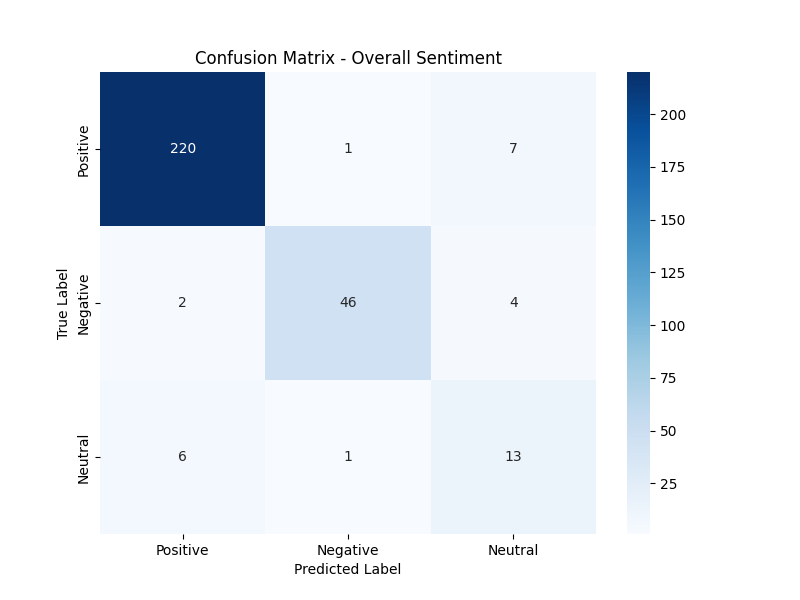
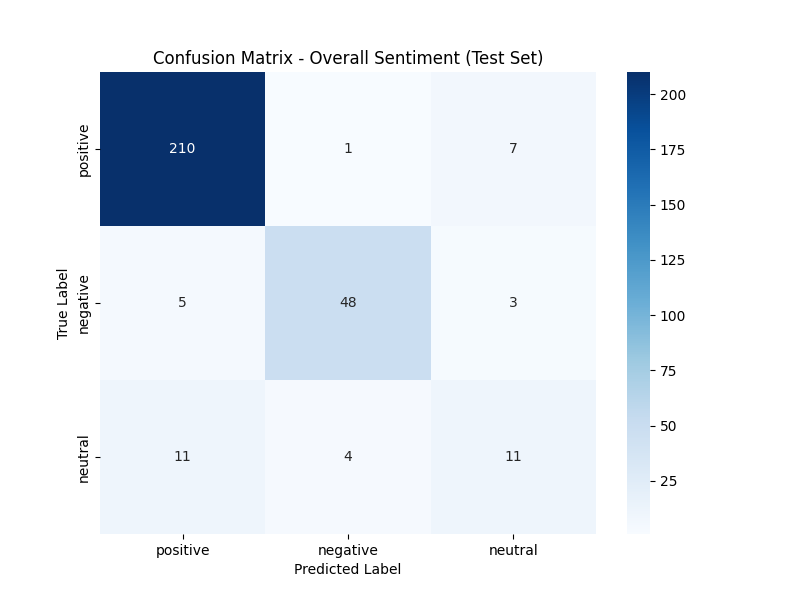
Expand aspect labels and evaluate test set
Preserve hierarchical aspect labels, create the splits directory when preparing data, and raise the CLI aspect-detection threshold. Evaluate the best checkpoint on the held-out test set, report classification and inference metrics, and save updated loss and confusion-matrix plots.

diff --git a/src/train_evaluate.py b/src/train_evaluate.py
@@ -1,3 +1,5 @@
+import time
+import json
 import torch
 import torch.nn as nn
 from torch.utils.data import DataLoader
@@ -11,48 +13,33 @@ from pathlib import Path
 
 from config import (
     TOKENIZED_DATA_FILE, BEST_MODEL_FILE, METRICS_DIR,
-    MODEL_NAME, BATCH_SIZE, EPOCHS, LEARNING_RATE
+    MODEL_NAME, BATCH_SIZE, EPOCHS, LEARNING_RATE, LABEL_CLASSES_FILE
 )
 
-# ==============================================================================
 # 1. KHỞI TẠO KIẾN TRÚC MÔ HÌNH MULTI-TASK PHOBERT
-# ==============================================================================
 class HotelCommentModel(nn.Module):
     def __init__(self, num_sentiment_classes, num_aspect_classes):
         super(HotelCommentModel, self).__init__()
-        # Load thân mô hình PhoBERT (Chỉ lấy phần trích xuất đặc trưng, không lấy lớp phân loại có sẵn)
         self.phobert = AutoModel.from_pretrained(MODEL_NAME)
-        
-        # Dropout giúp chống Overfitting (Học vẹt)
         self.drop = nn.Dropout(p=0.3)
-        
-        # Head 1: Phân loại sắc thái tổng thể (Multi-class: Pos, Neg, Neu)
         self.sentiment_head = nn.Linear(self.phobert.config.hidden_size, num_sentiment_classes)
-        
-        # Head 2: Trích xuất đa nhãn khía cạnh (Multi-label: HOTEL#POS, ROOM#NEG...)
         self.aspect_head = nn.Linear(self.phobert.config.hidden_size, num_aspect_classes)
         
     def forward(self, input_ids, attention_mask):
-        # Đưa văn bản qua PhoBERT
         outputs = self.phobert(
             input_ids=input_ids,
             attention_mask=attention_mask
         )
-        
-        # Lấy vector đại diện cho toàn bộ câu (Token <s> đầu tiên của kiến trúc RoBERTa/PhoBERT)
         pooled_output = outputs.last_hidden_state[:, 0, :]
         pooled_output = self.drop(pooled_output)
         
-        # Rẽ nhánh ra 2 bài toán
         sentiment_logits = self.sentiment_head(pooled_output)
         aspect_logits = self.aspect_head(pooled_output)
         
         return sentiment_logits, aspect_logits
 
-# ==============================================================================
 # 2. HÀM HUẤN LUYỆN VÀ ĐÁNH GIÁ
-# ==============================================================================
-def plot_metrics(train_losses, val_losses, conf_matrix):
+def plot_metrics(train_losses, val_losses, conf_matrix, class_names):
     """Vẽ biểu đồ Loss và Ma trận nhầm lẫn."""
     METRICS_DIR.mkdir(parents=True, exist_ok=True)
     
@@ -67,12 +54,12 @@ def plot_metrics(train_losses, val_losses, conf_matrix):
     plt.savefig(METRICS_DIR / 'loss_curve.png')
     plt.close()
 
-    # 2. Ma trận nhầm lẫn (Confusion Matrix) cho sắc thái tổng thể
+    # 2. Ma trận nhầm lẫn (Confusion Matrix) trên tập Test
     plt.figure(figsize=(8, 6))
     sns.heatmap(conf_matrix, annot=True, fmt='d', cmap='Blues',
-                xticklabels=['Positive', 'Negative', 'Neutral'],
-                yticklabels=['Positive', 'Negative', 'Neutral'])
-    plt.title('Confusion Matrix - Overall Sentiment')
+                xticklabels=class_names,
+                yticklabels=class_names)
+    plt.title('Confusion Matrix - Overall Sentiment (Test Set)')
     plt.ylabel('True Label')
     plt.xlabel('Predicted Label')
     plt.savefig(METRICS_DIR / 'confusion_matrix.png')
@@ -80,35 +67,37 @@ def plot_metrics(train_losses, val_losses, conf_matrix):
 
 def train():
     if not TOKENIZED_DATA_FILE.exists():
-        print(f"❌ Không tìm thấy {TOKENIZED_DATA_FILE}. Chạy prepare_data.py trước.")
+        print(f"Không tìm thấy {TOKENIZED_DATA_FILE}. Chạy prepare_data.py trước.")
         return
 
-    # Tự động chọn GPU nếu có (khi chạy trên Colab), ngược lại dùng CPU
-    device = torch.device("cuda" if torch.cuda.is_available() else "cpu")
-    print(f"🚀 Đang sử dụng thiết bị: {device}")
+    # Lấy danh sách tên nhãn để hiển thị báo cáo
+    with open(LABEL_CLASSES_FILE, 'r', encoding='utf-8') as f:
+        classes_info = json.load(f)
+    sentiment_class_names = classes_info["overall_sentiments"]
 
-    # Load dữ liệu đã Tokenize
+    device = torch.device("cuda" if torch.cuda.is_available() else "cpu")
+    print(f"Đang sử dụng thiết bị: {device}")
+
     data = torch.load(TOKENIZED_DATA_FILE, weights_only=False)
     train_loader = DataLoader(data['train'], batch_size=BATCH_SIZE, shuffle=True)
     val_loader = DataLoader(data['val'], batch_size=BATCH_SIZE)
+    test_loader = DataLoader(data['test'], batch_size=BATCH_SIZE)
     
     num_sentiment_classes = data['num_sentiment_classes']
     num_aspect_classes = data['num_aspect_classes']
 
-    # Khởi tạo mô hình
     model = HotelCommentModel(num_sentiment_classes, num_aspect_classes).to(device)
     
-    # Optimizer & Hàm Loss
     optimizer = AdamW(model.parameters(), lr=LEARNING_RATE)
-    # Loss cho phân loại 1 nhãn (Sắc thái chung)
     loss_fn_sentiment = nn.CrossEntropyLoss()
-    # Loss cho phân loại đa nhãn (Khía cạnh) - Dùng Binary Cross Entropy độc lập cho từng nhãn
     loss_fn_aspect = nn.BCEWithLogitsLoss()
 
     best_val_loss = float('inf')
     train_losses, val_losses = [], []
 
-    print("🔥 Bắt đầu huấn luyện...")
+    print("Bắt đầu huấn luyện...")
+    train_start_time = time.time()
+
     for epoch in range(EPOCHS):
         model.train()
         total_train_loss = 0
@@ -119,7 +108,6 @@ def train():
             optimizer.zero_grad()
             sentiment_logits, aspect_logits = model(input_ids, attention_mask)
             
-            # Tính tổng Loss của cả 2 bài toán
             loss_sentiment = loss_fn_sentiment(sentiment_logits, sentiment_labels)
             loss_aspect = loss_fn_aspect(aspect_logits, aspect_labels)
             loss = loss_sentiment + loss_aspect
@@ -146,7 +134,6 @@ def train():
                 loss = loss_sentiment + loss_aspect
                 total_val_loss += loss.item()
                 
-                # Lưu lại dự đoán sắc thái để tính F1 và vẽ ma trận
                 preds = torch.argmax(sentiment_logits, dim=1)
                 val_sent_preds.extend(preds.cpu().numpy())
                 val_sent_trues.extend(sentiment_labels.cpu().numpy())
@@ -155,19 +142,52 @@ def train():
         val_losses.append(avg_val_loss)
         
         val_f1 = f1_score(val_sent_trues, val_sent_preds, average='macro')
-        print(f"Epoch {epoch+1}/{EPOCHS} | Train Loss: {avg_train_loss:.4f} | Val Loss: {avg_val_loss:.4f} | Val F1 (Sentiment): {val_f1:.4f}")
+        print(f"Epoch {epoch+1}/{EPOCHS} | Train Loss: {avg_train_loss:.4f} | Val Loss: {avg_val_loss:.4f} | Val F1 (Macro): {val_f1:.4f}")
 
-        # Lưu mô hình tốt nhất
         if avg_val_loss < best_val_loss:
             best_val_loss = avg_val_loss
             BEST_MODEL_FILE.parent.mkdir(parents=True, exist_ok=True)
             torch.save(model.state_dict(), BEST_MODEL_FILE)
-            best_conf_matrix = confusion_matrix(val_sent_trues, val_sent_preds)
-            print("💾 Đã lưu mô hình tốt nhất!")
+            print("  -> 💾 Đã lưu mô hình tốt nhất!")
 
-    # Vẽ biểu đồ sau khi train xong
-    plot_metrics(train_losses, val_losses, best_conf_matrix)
-    print(f"📊 Đã xuất biểu đồ Loss và Confusion Matrix ra thư mục {METRICS_DIR}")
+    total_train_time = time.time() - train_start_time
+    print(f"\nTỔNG THỜI GIAN HUẤN LUYỆN: {total_train_time:.2f} giây")
+
+    # ================= ĐÁNH GIÁ TRÊN TẬP TEST (THI THẬT) =================
+    print("\n" + "="*50)
+    print("BẮT ĐẦU ĐÁNH GIÁ TRÊN TẬP TEST...")
+    
+    # Nạp lại trọng số tốt nhất đã lưu
+    model.load_state_dict(torch.load(BEST_MODEL_FILE, weights_only=True))
+    model.eval()
+    
+    test_sent_preds, test_sent_trues = [], []
+    test_start_time = time.time()
+    
+    with torch.no_grad():
+        for batch in test_loader:
+            input_ids, attention_mask, sentiment_labels, aspect_labels = [b.to(device) for b in batch]
+            sentiment_logits, _ = model(input_ids, attention_mask)
+            
+            preds = torch.argmax(sentiment_logits, dim=1)
+            test_sent_preds.extend(preds.cpu().numpy())
+            test_sent_trues.extend(sentiment_labels.cpu().numpy())
+            
+    total_test_time = time.time() - test_start_time
+    num_test_samples = len(test_sent_trues)
+    
+    print(f"Thời gian dự đoán (Inference Time): {total_test_time:.4f} giây cho {num_test_samples} mẫu (Trung bình: {total_test_time/num_test_samples:.4f} s/mẫu)")
+    
+    # Báo cáo tổng hợp Precision, Recall, F1 (Macro & Weighted)
+    print("\nBÁO CÁO PHÂN LOẠI (Sắc thái tổng thể):")
+    report = classification_report(test_sent_trues, test_sent_preds, target_names=sentiment_class_names)
+    print(report)
+
+    # Vẽ biểu đồ Loss và Confusion Matrix trên tập Test
+    test_conf_matrix = confusion_matrix(test_sent_trues, test_sent_preds)
+    plot_metrics(train_losses, val_losses, test_conf_matrix, sentiment_class_names)
+    print(f"Đã xuất biểu đồ Loss và Confusion Matrix ra thư mục {METRICS_DIR}")
 
 if __name__ == "__main__":
     train()
+    

diff --git a/src/read_data.py b/src/read_data.py
@@ -6,7 +6,7 @@ from config import DATASET_FILE, RAW_CSV_FILE, LABEL_CLASSES_FILE
 def determine_overall_sentiment(sentiments):
     """
     Tự động tính sắc thái tổng thể của câu dựa trên các nhãn khía cạnh.
-    Quy tắc: Khen > Chê -> positive | Chê > Khen -> negative | Bằng nhau -> neutral
+    Quy tắc: Khen > Chê -> positive | Chê > Khen -> negative | Bằng nhau -> neutral[cite: 6]
     """
     if not sentiments:
         return "neutral"
@@ -22,18 +22,16 @@ def determine_overall_sentiment(sentiments):
         return "neutral"
 
 def process_dataset():
-    # Kiểm tra xem file dataset.txt có tồn tại
     if not DATASET_FILE.exists():
         print(f"Lỗi: Không tìm thấy file {DATASET_FILE}")
         return
 
-    # Đọc nội dung file
     with open(DATASET_FILE, 'r', encoding='utf-8') as f:
         content = f.read()
 
-    # Regex 1: Tách từng block bình luận bắt đầu bằng #ID
+    # Regex 1: Tách từng block bình luận bắt đầu bằng #ID[cite: 6]
     entry_pattern = re.compile(r'#(\d+)\s*(.*?)\s*(?=(?:#\d+)|\Z)', re.DOTALL)
-    # Regex 2: Tách các nhãn trong ngoặc nhọn {KHÍA_CẠNH, sắc_thái}
+    # Regex 2: Tách các nhãn trong ngoặc nhọn {KHÍA_CẠNH, sắc_thái}[cite: 6]
     label_pattern = re.compile(r'\{([^,]+),\s*(positive|negative|neutral)\}')
 
     data = []
@@ -44,12 +42,9 @@ def process_dataset():
         entry_id = match.group(1)
         block = match.group(2).strip()
 
-        # Tìm toàn bộ nhãn trong block
         labels = label_pattern.findall(block)
         
-        # Xóa nhãn khỏi block để lấy phần chữ (text) thuần túy
         text = label_pattern.sub('', block).strip()
-        # Chuẩn hóa khoảng trắng thừa và ký tự xuống dòng
         text = re.sub(r'\s+', ' ', text).strip()
 
         aspect_sentiment_labels = []
@@ -57,16 +52,12 @@ def process_dataset():
 
         for aspect, sentiment in labels:
             aspect = aspect.strip()
-            if '#' in aspect:
-                aspect = aspect.split('#')[0]
             sentiment = sentiment.strip().lower()
             
-            # Gộp khía cạnh và sắc thái thành 1 nhãn tổ hợp (VD: HOTEL#GENERAL__positive)
             label_str = f"{aspect}__{sentiment}"
             aspect_sentiment_labels.append(label_str)
             sentiments.append(sentiment)
             
-            # Đưa vào set để lọc trùng lặp
             all_aspect_sentiments.add(label_str)
             all_aspects.add(aspect)
 
@@ -76,16 +67,13 @@ def process_dataset():
             "id": entry_id,
             "text": text,
             "overall_sentiment": overall_sentiment,
-            "aspect_labels": "|".join(aspect_sentiment_labels) # Nối các nhãn bằng dấu |
+            "aspect_labels": "|".join(aspect_sentiment_labels) 
         })
 
-    # 1. Lưu DataFrame ra file CSV
     df = pd.DataFrame(data)
-    # Đảm bảo thư mục tồn tại trước khi lưu
     RAW_CSV_FILE.parent.mkdir(parents=True, exist_ok=True)
     df.to_csv(RAW_CSV_FILE, index=False, encoding='utf-8-sig')
 
-    # 2. Lưu danh sách các nhãn quét được ra file JSON
     classes_info = {
         "overall_sentiments": ["positive", "negative", "neutral"],
         "aspects": sorted(list(all_aspects)),
@@ -96,7 +84,6 @@ def process_dataset():
     with open(LABEL_CLASSES_FILE, 'w', encoding='utf-8') as f:
         json.dump(classes_info, f, ensure_ascii=False, indent=4)
 
-    # In báo cáo ra terminal
     print(f"Đã xử lý thành công {len(df)} bình luận.")
     print(f"Dữ liệu thô lưu tại: {RAW_CSV_FILE}")
     print(f"File cấu trúc nhãn lưu tại: {LABEL_CLASSES_FILE}")

diff --git a/src/clean_data.py b/src/clean_data.py
@@ -7,36 +7,26 @@ from config import RAW_CSV_FILE, CLEAN_CSV_FILE, DATA_DIR
 ABBREVIATIONS_FILE = DATA_DIR / "abbreviations.json"
 
 def load_abbreviations():
-    """Tải danh sách từ viết tắt từ file JSON."""
     if not ABBREVIATIONS_FILE.exists():
         print(f"Không tìm thấy {ABBREVIATIONS_FILE}. Bỏ qua bước chuẩn hóa từ viết tắt.")
         return {}
     with open(ABBREVIATIONS_FILE, 'r', encoding='utf-8') as f:
         return json.load(f)
 
-
 def clean_text(text, abbrev_dict):
-    """Làm sạch văn bản nhưng vẫn giữ nguyên dấu câu cho PhoBERT."""
     if not isinstance(text, str):
         return ""
     
-    # 1. Chuyển về chữ thường
     text = text.lower()
-    
-    # 2. Xóa các URL, link rác
     text = re.sub(r'https?://\S+|www\.\S+', ' ', text)
-    
-    # 3. Thu gọn các ký tự lặp lại quá 2 lần (VD: "ngonnnn" -> "ngonn")
     text = re.sub(r'(.)\1{2,}', r'\1\1', text)
     
-    # 4. Thay thế từ viết tắt dựa trên ranh giới từ (\b)
-    for abbr, full_word in abbrev_dict.items():
-        pattern = r'\b' + re.escape(abbr) + r'\b'
-        text = re.sub(pattern, full_word, text)
+    if abbrev_dict:
+        for abbr, full_word in abbrev_dict.items():
+            pattern = r'\b' + re.escape(abbr) + r'\b'
+            text = re.sub(pattern, full_word, text)
         
-    # 5. Chuẩn hóa khoảng trắng và giữ nguyên dấu câu (! ? , .)
     text = re.sub(r'\s+', ' ', text).strip()
-    
     return text
 
 def process_cleaning():
@@ -49,13 +39,9 @@ def process_cleaning():
     abbrev_dict = load_abbreviations()
     
     print("Đang làm sạch dữ liệu văn bản...")
-    # Khởi tạo cột mới chứa văn bản đã làm sạch
     df['clean_text'] = df['text'].apply(lambda x: clean_text(x, abbrev_dict))
-    
-    # Loại bỏ các dòng trống sau khi làm sạch
     df = df[df['clean_text'].str.strip() != '']
     
-    # Lưu ra file CSV mới
     CLEAN_CSV_FILE.parent.mkdir(parents=True, exist_ok=True)
     df.to_csv(CLEAN_CSV_FILE, index=False, encoding='utf-8-sig')
     

diff --git a/src/prepare_data.py b/src/prepare_data.py
@@ -65,13 +65,16 @@ def prepare_data():
     train_df, temp_df = train_test_split(df, test_size=0.2, random_state=RANDOM_STATE)
     val_df, test_df = train_test_split(temp_df, test_size=0.5, random_state=RANDOM_STATE)
     
+    # Cập nhật: Tạo thư mục splits nếu chưa có để tránh lỗi FileNotFoundError
+    SPLITS_DATA_DIR.mkdir(parents=True, exist_ok=True)
+    
     # Lưu bản copy CSV ra
     train_df.to_csv(SPLITS_DATA_DIR / "train.csv", index=False, encoding='utf-8-sig')
     val_df.to_csv(SPLITS_DATA_DIR / "val.csv", index=False, encoding='utf-8-sig')
     test_df.to_csv(SPLITS_DATA_DIR / "test.csv", index=False, encoding='utf-8-sig')
 
     # 4. Băm văn bản (Tokenization)
-    print(f"⏳ Đang tải Tokenizer từ {MODEL_NAME}...")
+    print(f"Đang tải Tokenizer từ {MODEL_NAME}...")
     tokenizer = AutoTokenizer.from_pretrained(MODEL_NAME)
     
     def tokenize_dataframe(dataframe):
@@ -83,7 +86,7 @@ def prepare_data():
             padding='max_length',
             truncation=True,
             max_length=MAX_LEN,
-            return_tensors='pt' # Trả về Tensor của PyTorch
+            return_tensors='pt' 
         )
         
         # Chuyển nhãn thành Tensor
@@ -98,7 +101,7 @@ def prepare_data():
             aspect_tensors
         )
         
-    print("⏳ Đang Tokenize văn bản và ép kiểu Tensor...")
+    print("Đang Tokenize văn bản và ép kiểu Tensor...")
     train_dataset = tokenize_dataframe(train_df)
     val_dataset = tokenize_dataframe(val_df)
     test_dataset = tokenize_dataframe(test_df)

diff --git a/src/predict_cli.py b/src/predict_cli.py
@@ -67,10 +67,10 @@ def predict(text, model, tokenizer, device, id2sentiment, id2aspect, abbrev_dict
         # Xử lý kết quả Khía cạnh (Dùng Sigmoid và đặt ngưỡng Threshold = 0.5)
         aspect_probs = torch.sigmoid(aspect_logits).squeeze().cpu().numpy()
         
-        # Bắt tất cả các nhãn có xác suất > 50%
+        # Bắt tất cả các nhãn có xác suất > prob%
         detected_aspects = []
         for idx, prob in enumerate(aspect_probs):
-            if prob > 0.2:
+            if prob > 0.3:
                 detected_aspects.append((id2aspect[idx], prob))
                 
     return cleaned, final_sentiment, detected_aspects
